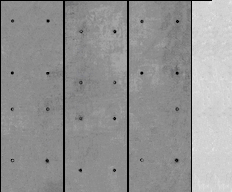
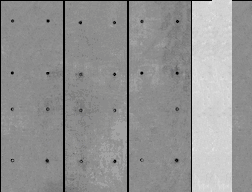
a

diff --git a/src/chunk-walls.cpp b/src/chunk-walls.cpp
@@ -4,7 +4,8 @@
 #include "wall-atlas.hpp"
 #include "shaders/shader.hpp"
 #include <Corrade/Containers/ArrayViewStl.h>
-#include <Corrade/Containers/PairStl.h>
+#include <Corrade/Containers/Pair.h>
+#include <Corrade/Containers/Optional.h>
 #include <utility>
 #include <algorithm>
 #include <ranges>
@@ -33,6 +34,30 @@ using Wall::Group_;
 using Wall::Direction_;
 
 // -----------------------
+
+constexpr Quads::quad get_corner(Direction_ D, Group_ G, float depth)
+{
+    CORRADE_ASSUME(D < Direction_::COUNT);
+    CORRADE_ASSUME(G < Group_::COUNT);
+    constexpr Vector2 half_tile = TILE_SIZE2*.5f;
+    constexpr float X = half_tile.x(), Y = half_tile.y(), Z = TILE_SIZE.z();
+    const bool is_west = D == Wall::Direction_::W;
+
+    if (!is_west)
+        return {{
+            {-X, -Y, 0 },
+            {-X, -Y, Z },
+            {-X - depth, -Y, 0 },
+            {-X - depth, -Y, Z },
+        }};
+    else
+        return {{
+            {-X, -Y - depth, 0 },
+            {-X, -Y - depth, Z },
+            {-X, -Y, 0 },
+            {-X, -Y, Z },
+        }};
+}
 
 constexpr Quads::quad get_quad(Direction_ D, Group_ G, float depth)
 {
@@ -100,6 +125,8 @@ constexpr Quads::quad get_quad(Direction_ D, Group_ G, float depth)
                 { -X, Y, Z }
             }};
         }
+    case corner:
+        return get_corner(D, G, depth);
     }
     std::unreachable();
     fm_abort("invalid wall_atlas group '%d'", (int)G);
@@ -148,7 +175,8 @@ GL::Mesh chunk::make_wall_mesh()
 
     for (uint32_t k = 0; k < 2*TILE_COUNT; k++)
     {
-        const auto D = k & 1 ? Wall::Direction_::W : Wall::Direction_::N;
+        const bool is_west = k & 1;
+        const auto D = is_west ? Wall::Direction_::W : Wall::Direction_::N;
         const auto& atlas = _walls->atlases[k];
         if (!atlas)
             continue;
@@ -157,23 +185,112 @@ GL::Mesh chunk::make_wall_mesh()
         const auto center = Vector3(pos) * TILE_SIZE;
         const auto& dir = atlas->calc_direction(D);
         const auto vpos = (uint8_t)Vector2ui(global_coords{_coord, pos}.raw()).sum();
+        const auto Depth = atlas->info().depth;
 
-        for (auto [_, member, G] : Wall::Direction::groups)
+        for (auto [_, member, G] : Wall::Direction::groups_for_draw)
         {
             CORRADE_ASSUME(G < Group_::COUNT);
 
-            const auto& group = dir.*member;
-            if (!group.is_defined)
+            bool corner_ok = false;
+
+            if (!(dir.*member).is_defined)
                 continue;
+
+            if (!is_west)
+            {
+                switch (G)
+                {
+                default:
+                    break;
+                case Wall::Group_::side:
+                    if (auto t2 = at_offset_(pos, {1, 0}); t2 && t2->wall_west_atlas())
+                        continue;
+                    else if (auto t2 = at_offset_(pos, {1, -1}); t2 && t2->wall_west_atlas())
+                        continue;
+                    else if (auto t2 = at_offset_(pos, {-1, 0}); t2 && !t2->wall_north_atlas())
+                        if (auto t2 = at_offset_(pos, {0, -1}); t2 && t2->wall_west_atlas())
+                            corner_ok = true;
+                    break;
+                }
+            }
+            else
+            {
+                switch (G)
+                {
+                default:
+                    break;
+                case Wall::Group_::side:
+                    if (auto t2 = at_offset_(pos, {0, 1}); t2 && t2->wall_north_atlas())
+                        continue;
+                    else if (auto t2 = at_offset_(pos, {-1, 1}); t2 && t2->wall_north_atlas())
+                        continue;
+                    else if (auto t2 = at_offset_(pos, {0, -1}); t2 && !t2->wall_west_atlas())
+                        if (auto t2 = at_offset_(pos, {-1, 0}); t2 && t2->wall_north_atlas())
+                            corner_ok = true;
+                    break;
+                }
+            }
+
             const auto depth_offset = depth_offset_for_group(G);
-            auto quad = get_quad(D, G, atlas->info().depth);
+            auto quad = get_quad(D, G, Depth);
             for (auto& v : quad)
                 v += center;
+
+            if (corner_ok)
+            {
+                if (dir.corner.is_defined)
+                {
+                    const auto frames = atlas->frames(dir.corner);
+                    auto variant = (variant_ != (uint8_t)-1 ? variant_ : vpos);
+                    variant += frames.size();
+                    if (!is_west)
+                        variant -= 1;
+                    else
+                        variant += 1;
+                    variant %= frames.size();
+                    const auto& frame = frames[variant];
+                    const auto texcoords = Quads::texcoords_at(frame.offset, frame.size, atlas->image_size());
+                    const auto i = N++;
+                    _walls->mesh_indexes[i] = (uint16_t)k;
+                    const auto depth = tile_shader::depth_value(pos, depth_offset);
+                    fm_debug_assert(i < vertexes.size());
+                    auto& v = vertexes[i];
+                    auto quad = get_quad(D, Group_::corner, Depth);
+                    for (auto& v : quad)
+                        v += center;
+                    for (uint8_t j = 0; j < 4; j++)
+                        v[j] = { quad[j], texcoords[j], depth };
+                }
+                else if (dir.wall.is_defined) [[likely]]
+                {
+                    const auto frames = atlas->frames(dir.wall);
+                    auto variant = (variant_ != (uint8_t)-1 ? variant_ : vpos);
+                    variant += frames.size() - 1;
+                    variant %= frames.size();
+                    const auto& frame = frames[variant];
+                    fm_assert(frame.size.x() > Depth);
+                    auto start = frame.offset + Vector2ui(frame.size.x(), 0) - Vector2ui{Depth, 0};
+                    const auto texcoords = Quads::texcoords_at(start, {Depth, frame.size.y()}, atlas->image_size());
+                    const auto i = N++;
+                    _walls->mesh_indexes[i] = (uint16_t)k;
+                    const auto depth = tile_shader::depth_value(pos, depth_offset);
+                    fm_debug_assert(i < vertexes.size());
+                    auto& v = vertexes[i];
+                    auto quad = get_corner(D, G, Depth);
+                    for (auto& v : quad)
+                        v += center;
+                    for (uint8_t j = 0; j < 4; j++)
+                        v[j] = { quad[j], texcoords[j], depth };
+                }
+            }
+
+            const auto& group = dir.*member;
+            const auto frames = atlas->frames(group);
 
             const auto i = N++;
             fm_debug_assert(i < max_wall_quad_count);
             _walls->mesh_indexes[i] = (uint16_t)k;
-            const auto frames = atlas->frames(group);
+
             const auto variant = (variant_ != (uint8_t)-1 ? variant_ : vpos) % frames.size();
             const auto& frame = frames[variant];
             const auto texcoords = Quads::texcoords_at(frame.offset, frame.size, atlas->image_size());

diff --git a/src/wall-atlas.hpp b/src/wall-atlas.hpp
@@ -46,21 +46,28 @@ struct Direction
     using memfn_ptr = Group Direction::*;
     struct member_tuple { StringView name; memfn_ptr member; Group_ tag; };
 
-    Group wall{}, side{}, top{};
+    Group wall{}, side{}, top{}, corner{};
 
     const Group& group(Group_ i) const;
     const Group& group(size_t i) const;
     Group& group(Group_ i);
     Group& group(size_t i);
 
+    bool operator==(const Direction&) const noexcept;
+
     static constexpr inline member_tuple groups[] = {
         { "wall"_s,     &Direction::wall,     Group_::wall      },
         { "side"_s,     &Direction::side,     Group_::side      },
         { "top"_s,      &Direction::top,      Group_::top       },
+        { "corner"_s,   &Direction::corner,   Group_::corner    },
     };
     static_assert(std::size(groups) == (size_t)Group_::COUNT);
 
-    bool operator==(const Direction&) const noexcept;
+    static constexpr inline member_tuple groups_for_draw[] = {
+        { "wall"_s,     &Direction::wall,     Group_::wall      },
+        { "side"_s,     &Direction::side,     Group_::side      },
+        { "top"_s,      &Direction::top,      Group_::top       },
+    };
 };
 
 struct Info

diff --git a/test/wall-atlas.cpp b/test/wall-atlas.cpp
@@ -65,6 +65,8 @@ void test_read_groups(StringView filename)
     fm_assert(dir.side.pixel_size   == Vector2ui{42, 192}                 );
     fm_assert(dir.side.default_tint == true                               );
     fm_assert(dir.top.default_tint  == true                               );
+    fm_assert(dir.corner.index == 2);
+    fm_assert(dir.corner.count == 1);
 
     const auto atlas2 = wall_atlas_def::deserialize(path);
     fm_assert(atlas2.header == info);
@@ -88,8 +90,10 @@ void test_from_rotation(StringView filename)
     fm_assert(D_n.top.is_defined);
     fm_assert(D_n.top.from_rotation != null);
     fm_assert(D_n.top.from_rotation != null);
+    fm_assert(!D_n.corner.is_defined);
     fm_assert(D_w.top.from_rotation == null);
     fm_assert(D_w.top.is_defined);
+    fm_assert(D_w.corner.is_defined);
     fm_assert(atlas.direction_array[D_n.top.from_rotation].top.count == 12);
 }
 

diff --git a/editor/wall-editor.cpp b/editor/wall-editor.cpp
@@ -80,7 +80,11 @@ void wall_editor::place_tile(world& w, global_coords coords, const std::shared_p
     case rotation::W: t.wall_west() = { atlas, (variant_t)-1 }; break;
     default: std::unreachable();
     }
-    c.mark_walls_modified();
+    //c.mark_walls_modified();
+    for (int y = -1; y <= 1; y++)
+        for (int x = -1; x <= 1; x++)
+            if (auto* ch = w.at(coords + Vector2i(x, y)))
+                ch->mark_walls_modified();
 }
 
 editor_snap_mode wall_editor::check_snap(int mods) const

diff --git a/src/chunk.hpp b/src/chunk.hpp
@@ -124,7 +124,7 @@ struct chunk final
 
     // for drawing only
     static constexpr size_t max_wall_quad_count =
-        TILE_COUNT*Wall::Direction_COUNT*Wall::Group_COUNT;
+        TILE_COUNT*Wall::Direction_COUNT*(Wall::Group_COUNT+4);
 
 private:
     struct ground_stuff

diff --git a/src/wall-atlas.cpp b/src/wall-atlas.cpp
@@ -93,6 +93,7 @@ Vector2ui wall_atlas::expected_size(unsigned depth, Group_ group)
         return { size.x(), size.z() };
     case top:
     case side:
+    case corner:
         return { depth, size.z() };
     default:
         std::unreachable();

diff --git a/src/wall-defs.hpp b/src/wall-defs.hpp
@@ -3,7 +3,7 @@
 
 namespace floormat::Wall {
 
-enum class Group_ : uint8_t { wall, side, top, COUNT };
+enum class Group_ : uint8_t { wall, side, top, corner, COUNT };
 
 enum class Direction_ : uint8_t { N, W, COUNT };
 
